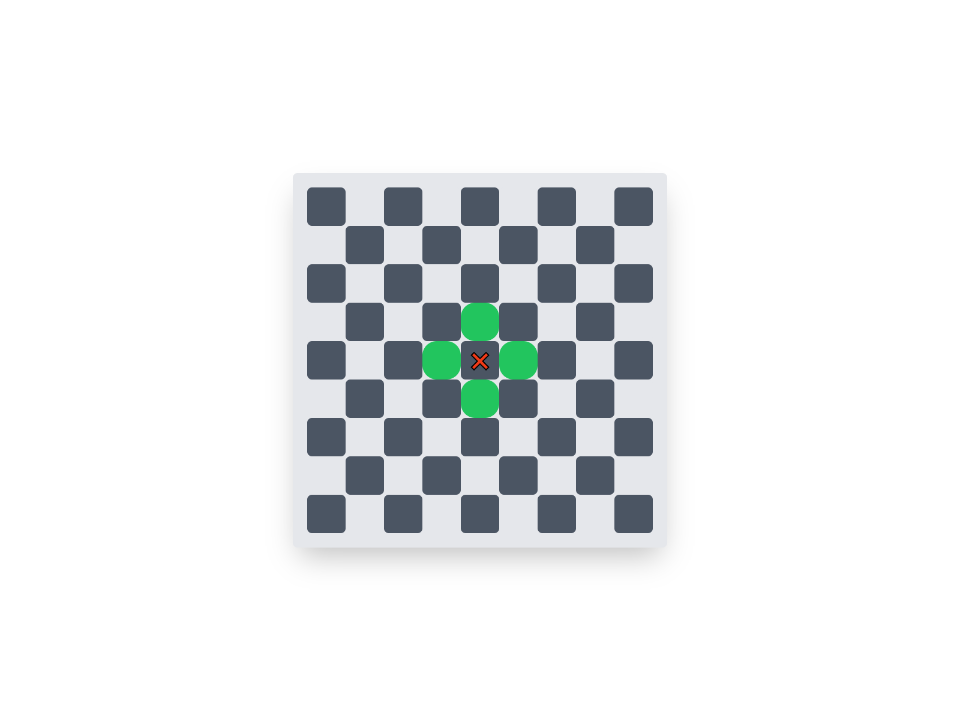
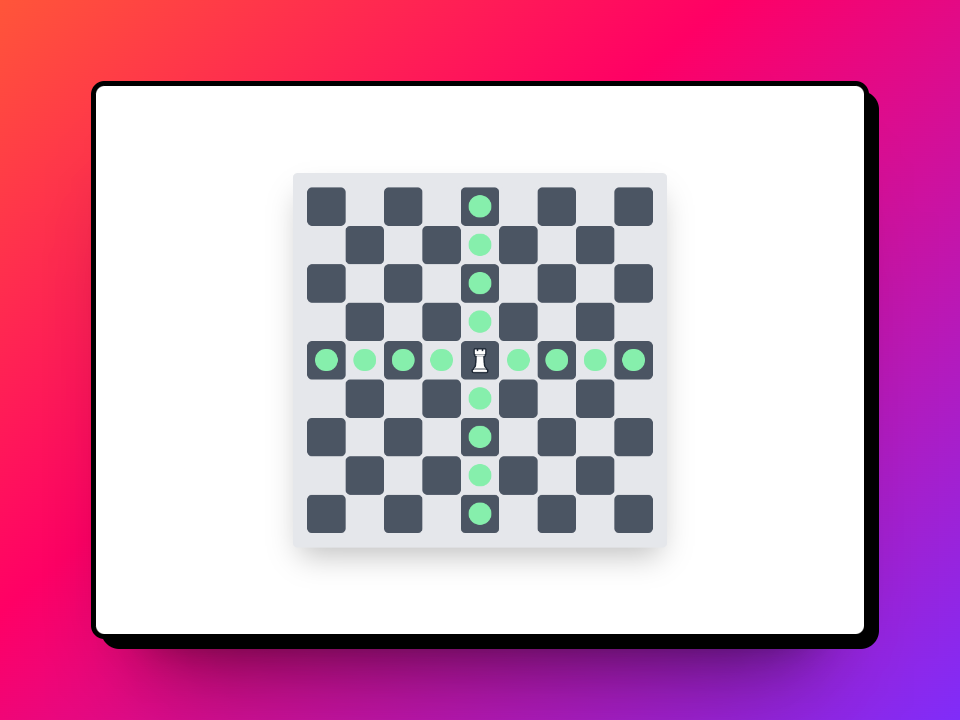
new screen shot

diff --git a/index.php b/index.php
@@ -8,8 +8,8 @@ function drawTable($length, $height, $steps)
         print('<tr>');
         for ($j = 1; $j <= $length; $j++) {
             $current_position = [
-                'x' => 1,
-                'y' => 1,
+                'x' => 5,
+                'y' => 5,
             ];
             $allowed_cells = allowedCells($current_position['x'], $current_position['y'], $length, $height, $steps);
             $content = getCellContent($i, $j, $current_position, $allowed_cells, $rook);
